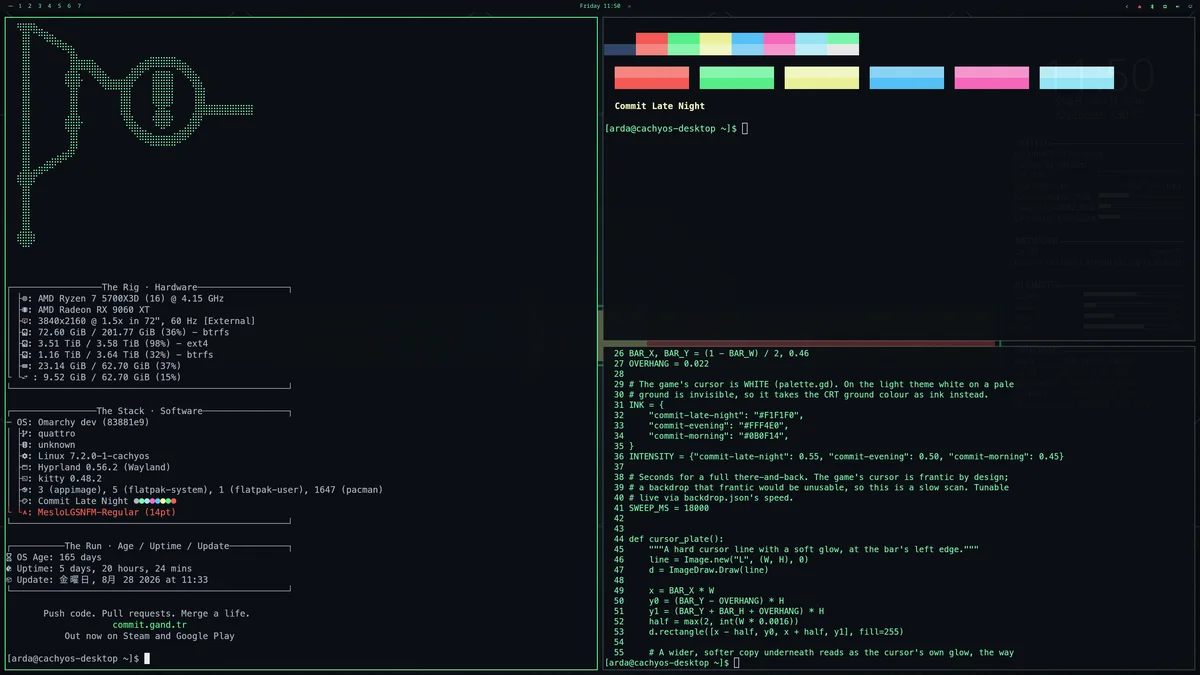
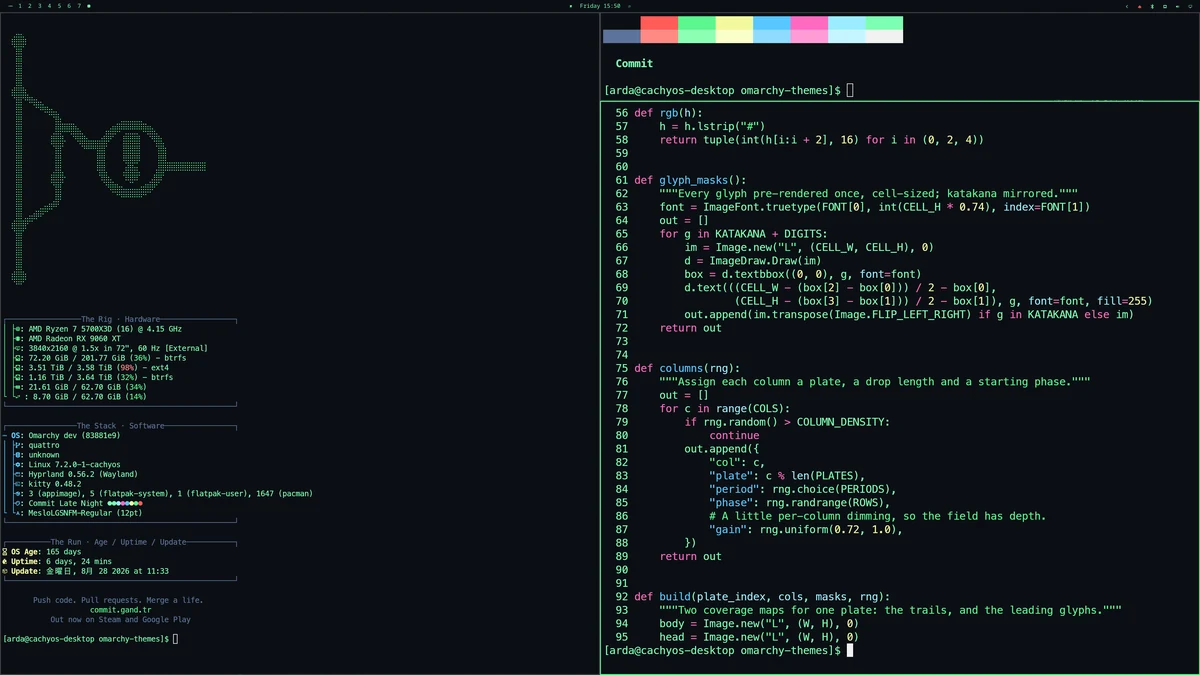
Retake every preview with the code pane in the theme's own colours
The old shots rendered the code window in bat's TwoDark. Measured, every
saturated pixel in commit.webp sat on one hue: the previews were showing
a screenshot of a different theme's palette, which is most of why these
looked plain.

tools/shoot-previews.sh drives it now, so this is repeatable rather than
a session's worth of window juggling: three windows on an empty
workspace, the family's About panel down the left, the ANSI slots and
the theme's name top right, and a source file under `bat --theme=ansi`
filling the rest. All eight themes that have an install repo, not just
the three flagships.

Two things it has to do that are not obvious:

- force the windows opaque. Omarchy's terminals are translucent and
  Hyprland's own opacity rule wins over kitty's background_opacity, so
  the desktop widgets read straight through them.
- pin gaps to zero. The shell's widgets sit on the background layer, so
  any gap that shows the wallpaper shows the host's weather, process
  list and resource meters along with it.

Hyprland 0.56 dispatches through Lua, so the old `hyprctl dispatch
closewindow address:...` is gone; and kitty answers a close request with
a confirmation prompt when it is holding an interactive shell, so the
shot windows are killed by pid.

Claude-Session: https://claude.ai/code/session_01LKUTFcork8rxWfFx2x9jxj

Changed region(s): [[0.0, 0.0, 1.0, 1.0]]

diff --git a/README.md b/README.md
@@ -62,9 +62,16 @@ Mapped 1:1 to the three themes on the site.
 | **Gand Light** | `#f0ebe1` | `#7a4f30` | `[data-theme="light"]` — warm vellum |
 
 The ANSI palette is built from the site's three accents: bronze staff (*gandr*)
-as `blue`/`accent`, patina sage as `green`, balbal stone grey as `cyan`, plus an
-ember red and heather magenta the site does not define. Every colour clears
-3.4:1 on its background. Wallpapers: `1-sigil`, `2-ring`, `3-vellum`.
+as `accent`, patina sage as `green`, balbal stone grey as `blue` and `cyan`,
+plus an ember red and heather magenta the site does not define. Wallpapers:
+`1-sigil`, `2-ring`, `3-vellum`.
+
+`blue` used to *be* the bronze accent, which meant function names, numbers and
+keywords all landed on one warm hue and code read as one colour. It now comes
+off the balbal stone with enough chroma to tell itself apart, and `cyan` turns
+the same stone toward verdigris. Every ANSI slot clears 4.5:1 on its
+background — `tools/palette_check.py` is the report, `tools/code_swatch.py`
+renders a file through a palette without switching the live theme.
 
 ## Commit!!!
 
@@ -84,7 +91,7 @@ are the game's own Commit Slots, the mechanic the whole sim runs on.
 |---|---|---|---|
 | **Commit Late Night** | `#0B0F14` | `#5AF78E` | the shipped palette: phosphor green on a cold CRT ground |
 | **Commit Evening** | `#12100A` | `#FFB454` | the other classic phosphor; the amber of the `!!!` promoted to body text |
-| **Commit Morning** | `#EEF1F5` | `#0F8A4B` | the CRT ground inverted into ink on paper |
+| **Commit Morning** | `#EEF1F5` | `#00793B` | the CRT ground inverted into ink on paper |
 
 Accents across all three are the game's Snazzy-family ANSI set. Wallpapers:
 `1-pulse` (the Commit Pulse bar, zone colours straight from `ZONE_COLORS`),
@@ -137,14 +144,17 @@ wallpaper. A theme opts in by shipping a `backdrop/` directory: the plates, plus
 a `backdrop.json` naming a profile, an intensity and a speed. Themes without one
 cost nothing — the layer model stays empty and no animation is created.
 
-Two kinds of motion, because the two families want different things:
+Four kinds of motion, because each family wants a different one:
 
 | Profile | Kind | Used by |
 |---|---|---|
 | `fog` | drift, 3 layers | Pagan Dark |
 | `mist` | drift, 2 layers, inverted plates | Pagan Light |
 | `orrery` | spin, 3 rings | all three Gand themes |
-| `pulse` | sweep, 1 cursor | all three Commit themes |
+| `pulse` | rain × 3 behind sweep × 1 | all three Commit themes |
+
+`kind` is a property of the profile, but a layer may override it: `pulse` is the
+one profile that mixes two.
 
 **drift** slides two copies of each plate sideways by exactly one copy width, so
 the wrap is seamless. Ported from pagan.tr's `fog.css`: movement and opacity run
@@ -170,7 +180,23 @@ cursor was removed once the live one existed — two cursors on one bar read as 
 mistake. A full there-and-back is 18s: the game's cursor is frantic by design,
 and a backdrop that frantic would be unusable.
 
-All three are tunable live, without touching QML:
+**rain** falls: two copies of a plate stacked vertically, scrolled by exactly
+one screen height so the wrap is seamless — drift turned through ninety degrees.
+Commit's glyph waterfall runs three of them behind the cursor. `gen_rain.py`
+hands each plate one third of the columns (0, 3, 6… on the first, 1, 4, 7… on
+the second) and the shell falls them at 31s, 43s and 57s per screen, so
+neighbouring columns never descend together and the three sheets never re-align
+into one visible front. A column's brightness is a function of `(row - phase)
+mod period` and every period divides the 40 rows, so what leaves the bottom is
+what arrives at the top. Glyphs are half-width katakana mirrored as the film's
+are, salted with digits that are not — a mirrored numeral just reads as a broken
+glyph. They do not re-roll as they fall: the plate is a static image the shell
+translates, trading the flicker for one texture and no per-frame work. Ink is
+per theme — phosphor green under white heads on Late Night, amber under cream on
+Evening, and on Morning the CRT ground becomes the ink, exactly as the cursor
+does, because pale rain on pale paper would not be there at all.
+
+All four are tunable live, without touching QML:
 
 ```sh
 $EDITOR ~/.config/omarchy/themes/gand-earth/backdrop/backdrop.json
@@ -178,7 +204,10 @@ omarchy-shell backdrop refresh
 ```
 
 `intensity` is the master opacity; `speed` multiplies the rate (2.0 is twice as
-fast, 0.5 half). Pagan's intensity is 0.20/0.14 rather than the site's values:
+fast, 0.5 half). Commit's is 1.0, because it covers every layer alike and the
+cursor is meant to be a hard line, not a ghost of one — the rain carries its own
+dimming in the plate alphas instead. Pagan's is 0.20/0.14 rather than the site's
+values:
 `fog.css` is tuned for a small hero, and at 4K the same opacities produce a wall
 of cloud that swallows the mark — measured, it fell from 3.72:1 to 2.28:1.
 
